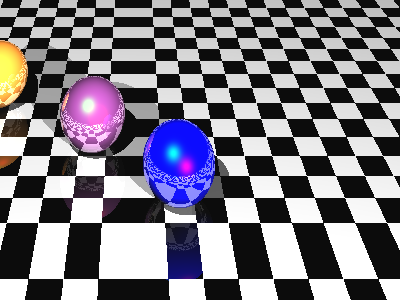
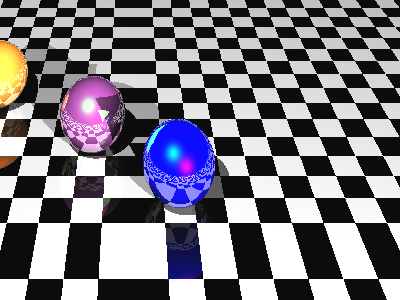
imagen actualizada

diff --git a/raytracing.py b/raytracing.py
@@ -207,7 +207,7 @@ color_plane1 = 0. * np.ones(3)
 scene = [add_sphere([.75, .1, 1.], .6, [0., 0., 1.]),
          add_sphere([-.75, .1, 2.25], .6, [.5, .223, .5]),
          add_sphere([-2.75, .1, 3.5], .6, [1., .572, .184]),
-         #add_triangle([0., 0.25, 1.], [-0.5, 0.75, 1.5], [0.5, 0.75, 1.5], [0.3, 0.8, 0.2]),
+         add_triangle([0., 0.25, 1.], [-0.5, 0.75, 1.5], [0.5, 0.75, 1.5], [0.3, 0.8, 0.2]),
          add_plane([0., -.5, 0.], [0., 1., 0.]),
     ]
 
